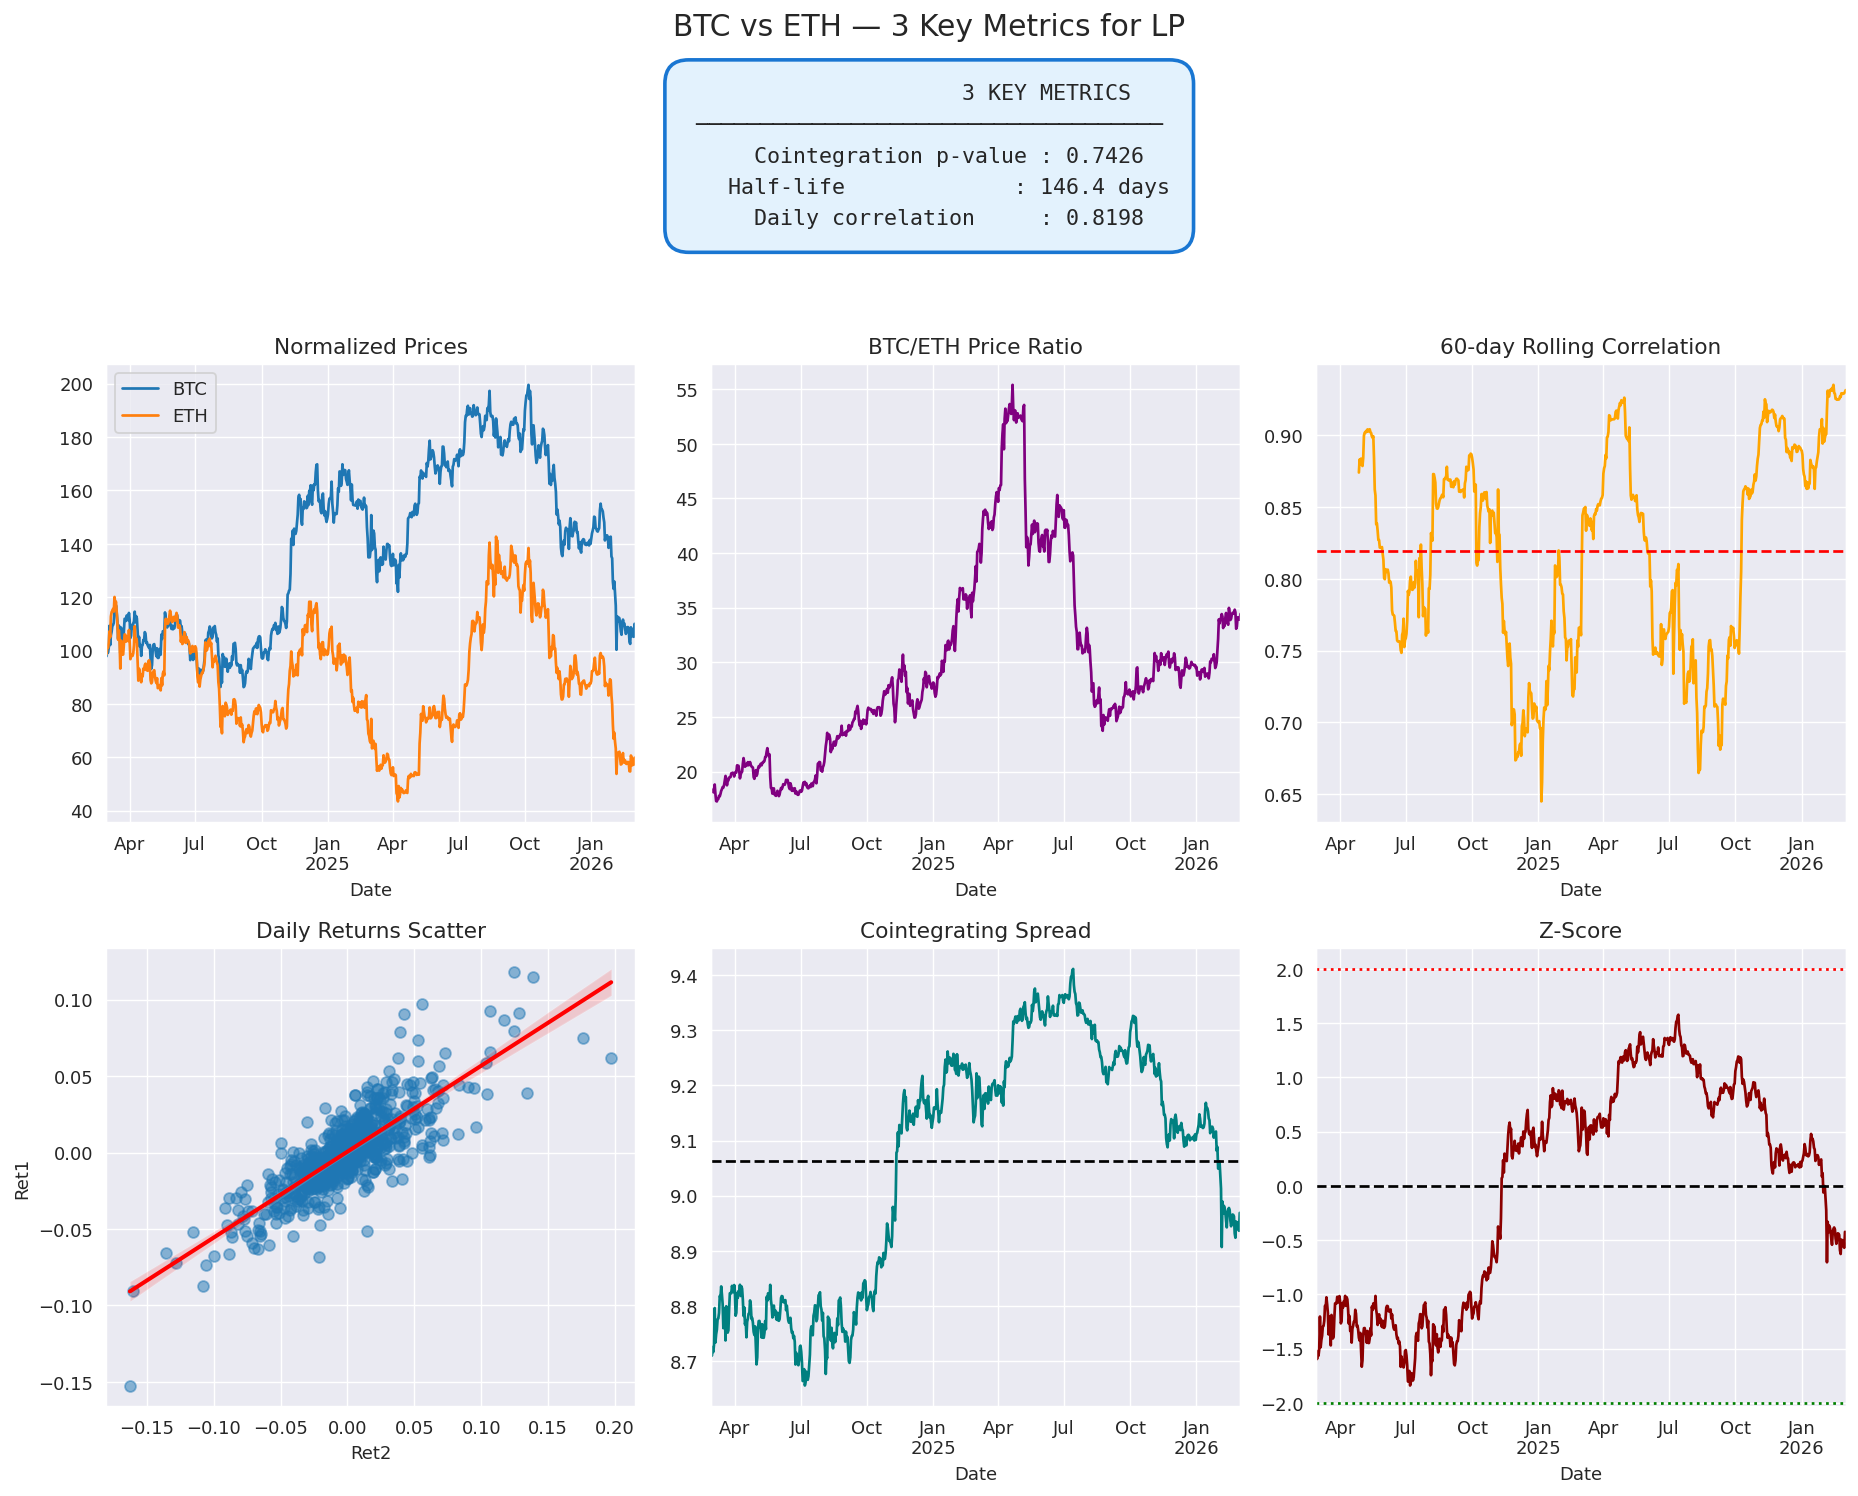
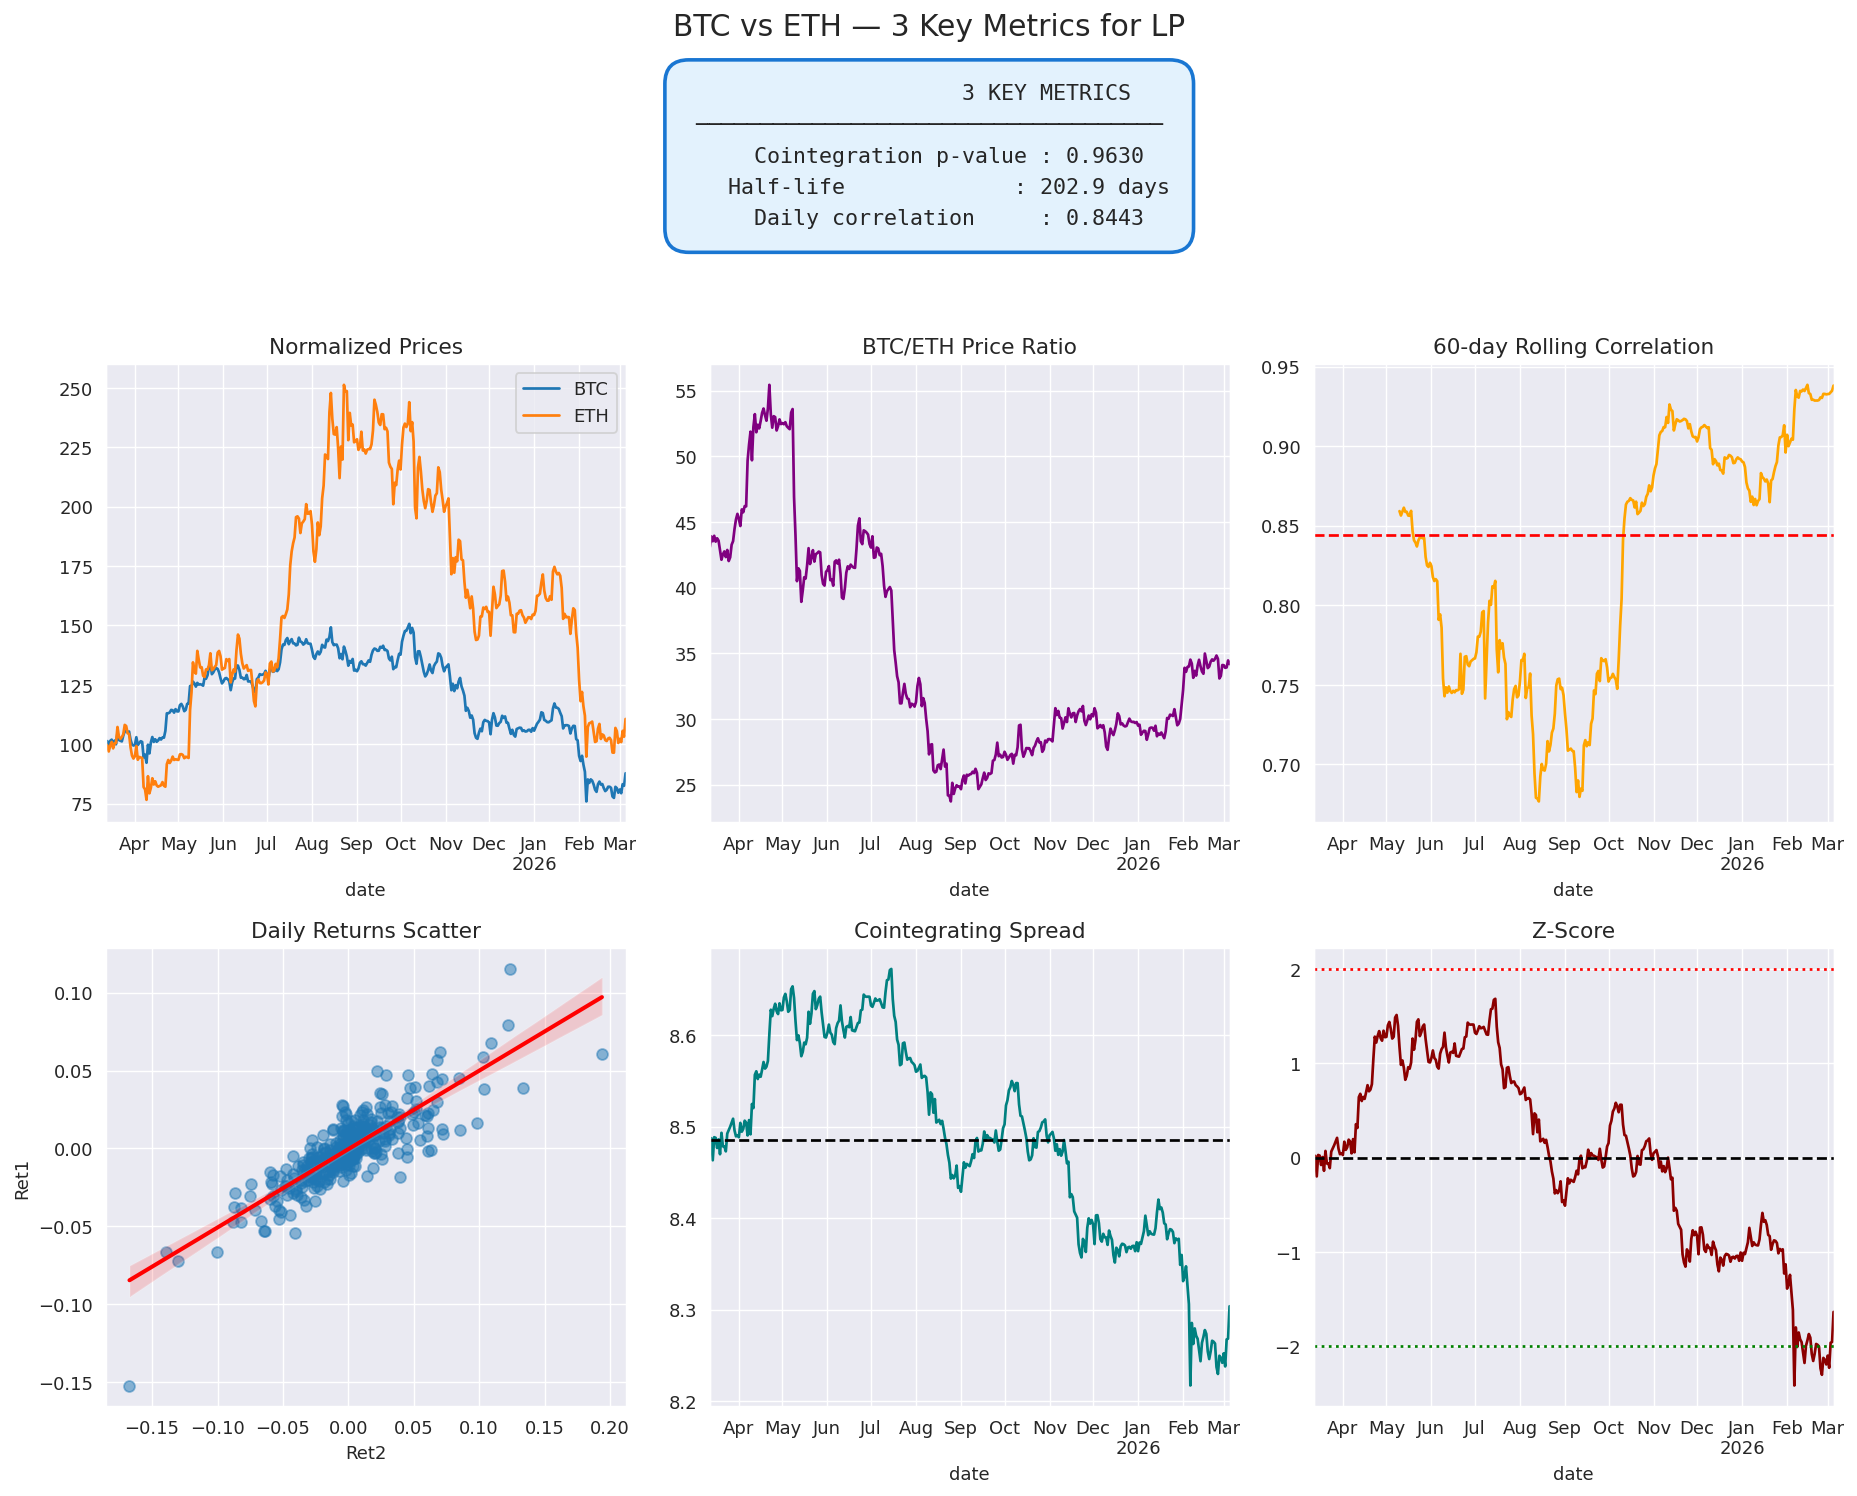
coingecko over yahoo

diff --git a/src/price_correlation/getPrices.py b/src/price_correlation/getPrices.py
@@ -1,80 +1,87 @@
 import sys
-import yfinance as yf
 import pandas as pd
-from datetime import datetime, timedelta
-
+from datetime import datetime, timedelta, timezone
+from pycoingecko import CoinGeckoAPI
+import time
 
 class CryptoPriceFetcher:
-    # Yahoo Finance has naming conflicts for some popular tokens
-    TICKER_MAPPING = {
-        "UNI": "UNI7083-USD",   # Uniswap (not UNICORN Token)
-        "FART": "FARTCOIN-USD", # ← The popular Solana Fartcoin (not the tiny Base one)
-        "PUMP": "PUMP36507-USD",
-        "JLP": "JLP-USD",
-        "VIRTUAL": "VIRTUAL-USD",
-        "AERO": "AERO29270-USD",
+    # CoinGecko coin IDs mapping – expand this as needed!
+    # Use cg.get_coins_list() or https://www.coingecko.com/en/api to find exact IDs
+    COIN_ID_MAPPING = {
+        "BTC": "bitcoin",
+        "ETH": "ethereum",
+        "JLP": "jupiter-perpetuals-liquidity-provider-token",
     }
 
     def __init__(self, token1: str, token2: str):
-        self.raw1 = token1.upper()
-        self.raw2 = token2.upper()
-
-        # Get correct internal Yahoo ticker
-        self.symbol1 = self.TICKER_MAPPING.get(self.raw1, f"{self.raw1}-USD")
-        self.symbol2 = self.TICKER_MAPPING.get(self.raw2, f"{self.raw2}-USD")
-
-        # Keep clean names for columns + filename
-        self.name1 = self.raw1
-        self.name2 = self.raw2
+        self.cg = CoinGeckoAPI()  # For paid/demo key: CoinGeckoAPI(demo_api_key="CG-XXXX...")
+        self.token1 = token1.upper()
+        self.token2 = token2.upper()
+        
+        # Resolve to CoinGecko ID
+        self.id1 = self.COIN_ID_MAPPING.get(self.token1, self.token1.lower().replace(" ", "-"))
+        self.id2 = self.COIN_ID_MAPPING.get(self.token2, self.token2.lower().replace(" ", "-"))
+        
+        self.name1 = self.token1
+        self.name2 = self.token2
 
     def fetch_and_save(self):
-        end_date = datetime.today().date()
-        start_date = end_date - timedelta(days=730 + 7)  # 2 years + buffer
+        end_dt = datetime.now(timezone.utc)
+        start_dt = end_dt - timedelta(days=360)  # 1 year + 2-week buffer for full coverage
 
-        print(f"Fetching daily closing prices for {self.symbol1} and {self.symbol2}...")
-        print(f"Period: {start_date} → {end_date}")
+        print(f"Fetching 1-year daily prices (UTC) for {self.name1} and {self.name2} vs USD...")
+        print(f"Period: {start_dt.date()} → {end_dt.date()}")
 
-        df = yf.download(
-            tickers=[self.symbol1, self.symbol2],
-            start=start_date,
-            end=end_date,
-            interval="1d",
-            progress=False,
-            auto_adjust=True
-        )
+        def get_daily_prices(coin_id: str) -> pd.Series:
+            try:
+                data = self.cg.get_coin_market_chart_range_by_id(
+                    id=coin_id,
+                    vs_currency="usd",
+                    from_timestamp=int(start_dt.timestamp()),
+                    to_timestamp=int(end_dt.timestamp()),
+                    # No interval → auto = daily for >90 days
+                )
+                # prices = [[unix_ms, price], ...]
+                df = pd.DataFrame(data["prices"], columns=["timestamp_ms", "price"])
+                df["date"] = pd.to_datetime(df["timestamp_ms"], unit="ms").dt.normalize()  # to date only
+                series = df.set_index("date")["price"].rename(coin_id)
+                return series
+            except Exception as e:
+                raise ValueError(f"Failed to fetch {coin_id}: {e}\nCheck coin ID at https://api.coingecko.com/api/v3/coins/list")
 
-        closing_prices = df["Close"].copy()
-        
-        # FIXED: Rename columns by actual ticker (not by position)
-        # This prevents swapping when yfinance returns columns alphabetically sorted
-        closing_prices = closing_prices.rename(columns={
-            self.symbol1: self.name1,
-            self.symbol2: self.name2
-        })
-        
-        # Force column order to always match user input (SOL first, then FART, etc.)
-        closing_prices = closing_prices[[self.name1, self.name2]]
-        
-        closing_prices = closing_prices.dropna()
+        try:
+            time.sleep(1.2)  # Gentle on rate limits
+            prices1 = get_daily_prices(self.id1)
+            time.sleep(1.2)
+            prices2 = get_daily_prices(self.id2)
 
-        print(f"\n✅ Downloaded {len(closing_prices):,} trading days")
-        print(closing_prices.tail(5))
+            # Combine on date index (inner join to drop mismatches)
+            df = pd.concat([prices1, prices2], axis=1).dropna()
+            df.columns = [self.name1, self.name2]
 
-        filename = f"{self.name1}_{self.name2}_daily_closing_prices_2y.csv"
-        closing_prices.to_csv(filename)
-        print(f"\n💾 Saved to: {filename}")
+            # Optional: add ratio column if this is a pair
+            # df[f"{self.name1}/{self.name2}"] = df[self.name1] / df[self.name2]
 
+            print(f"\n✅ Downloaded {len(df):,} daily data points")
+            print(df.tail(8))  # Show recent for verification
+
+            filename = f"{self.name1}_{self.name2}_coingecko_daily_1y.csv"
+            df.to_csv(filename)
+            print(f"\n💾 Saved to: {filename}")
+
+        except Exception as e:
+            print(f"Error during fetch: {e}")
+            print("Common fixes: Wrong coin ID? Rate limit? Try again later or add demo_api_key.")
 
 if __name__ == "__main__":
     if len(sys.argv) != 3:
-        print("Usage: python getPrices.py <token1> <token2>")
-        print("Example: python getPrices.py btc eth")
-        print("         python getPrices.py eth uni")
-        print("         python getPrices.py sol fart")
+        print("Usage: python getPrices_coingecko.py <token1> <token2>")
+        print("Examples:")
+        print("  python getPrices_coingecko.py btc eth")
+        print("  python getPrices_coingecko.py sol fart")
+        print("  python getPrices_coingecko.py uni pump")
         sys.exit(1)
 
-    token1 = sys.argv[1]
-    token2 = sys.argv[2]
-
+    token1, token2 = sys.argv[1], sys.argv[2]
     fetcher = CryptoPriceFetcher(token1, token2)
     fetcher.fetch_and_save()

diff --git a/src/price_correlation/analyzePrices.py b/src/price_correlation/analyzePrices.py
@@ -14,15 +14,14 @@ class PriceAnalyzer:
     def __init__(self, token1: str, token2: str):
         self.name1 = token1.upper()
         self.name2 = token2.upper()
-        self.filename = f"{self.name1}_{self.name2}_daily_closing_prices_2y.csv"
+        self.filename = f"{self.name1}_{self.name2}_coingecko_daily_1y.csv"
 
     def load_data(self):
         if not os.path.exists(self.filename):
             print(f"❌ CSV not found: {self.filename}")
-            print("   First run: python getPrices.py btc eth")
             sys.exit(1)
         
-        df = pd.read_csv(self.filename, index_col='Date', parse_dates=True)
+        df = pd.read_csv(self.filename, index_col='date', parse_dates=True)
         self.df = df[[self.name1, self.name2]].dropna()
         print(f"✅ Loaded {len(self.df):,} days from {self.df.index[0].date()} to {self.df.index[-1].date()}")
 
